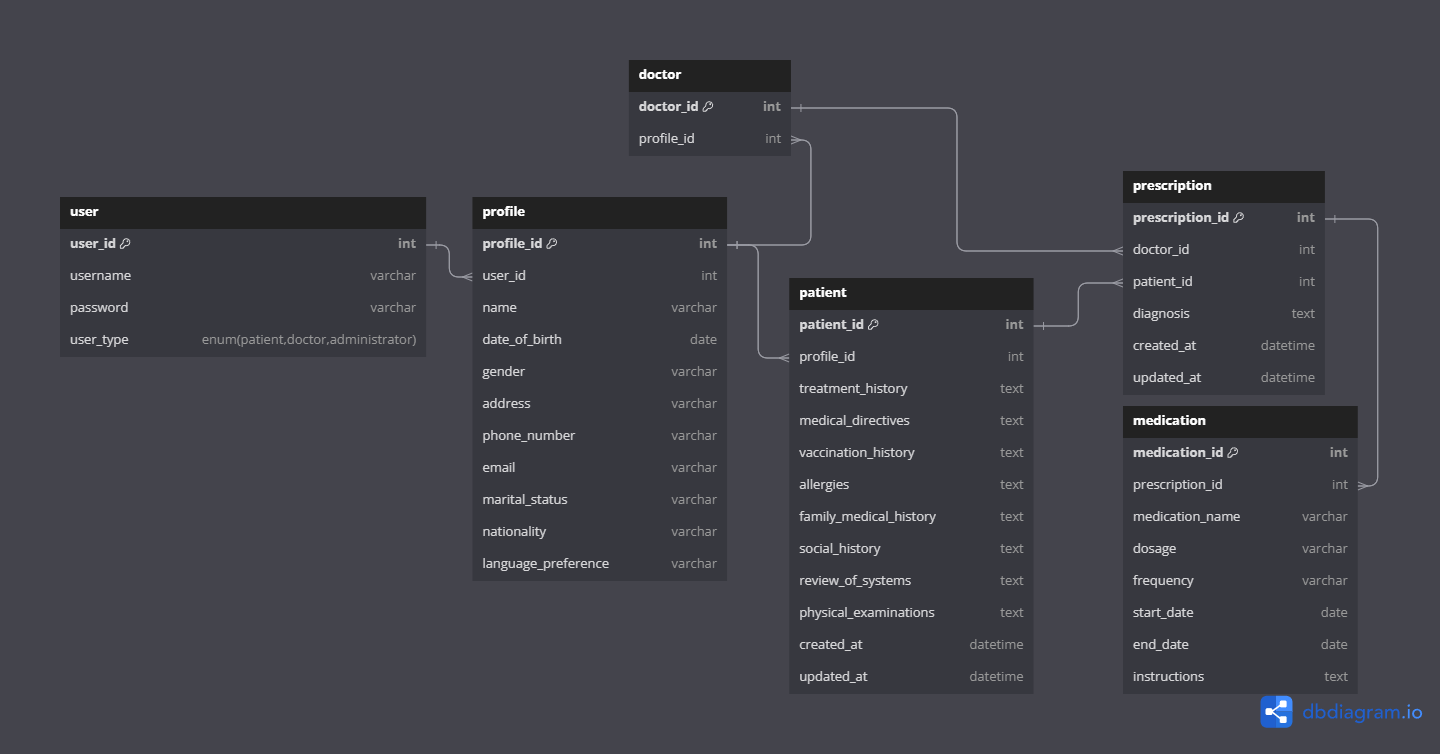
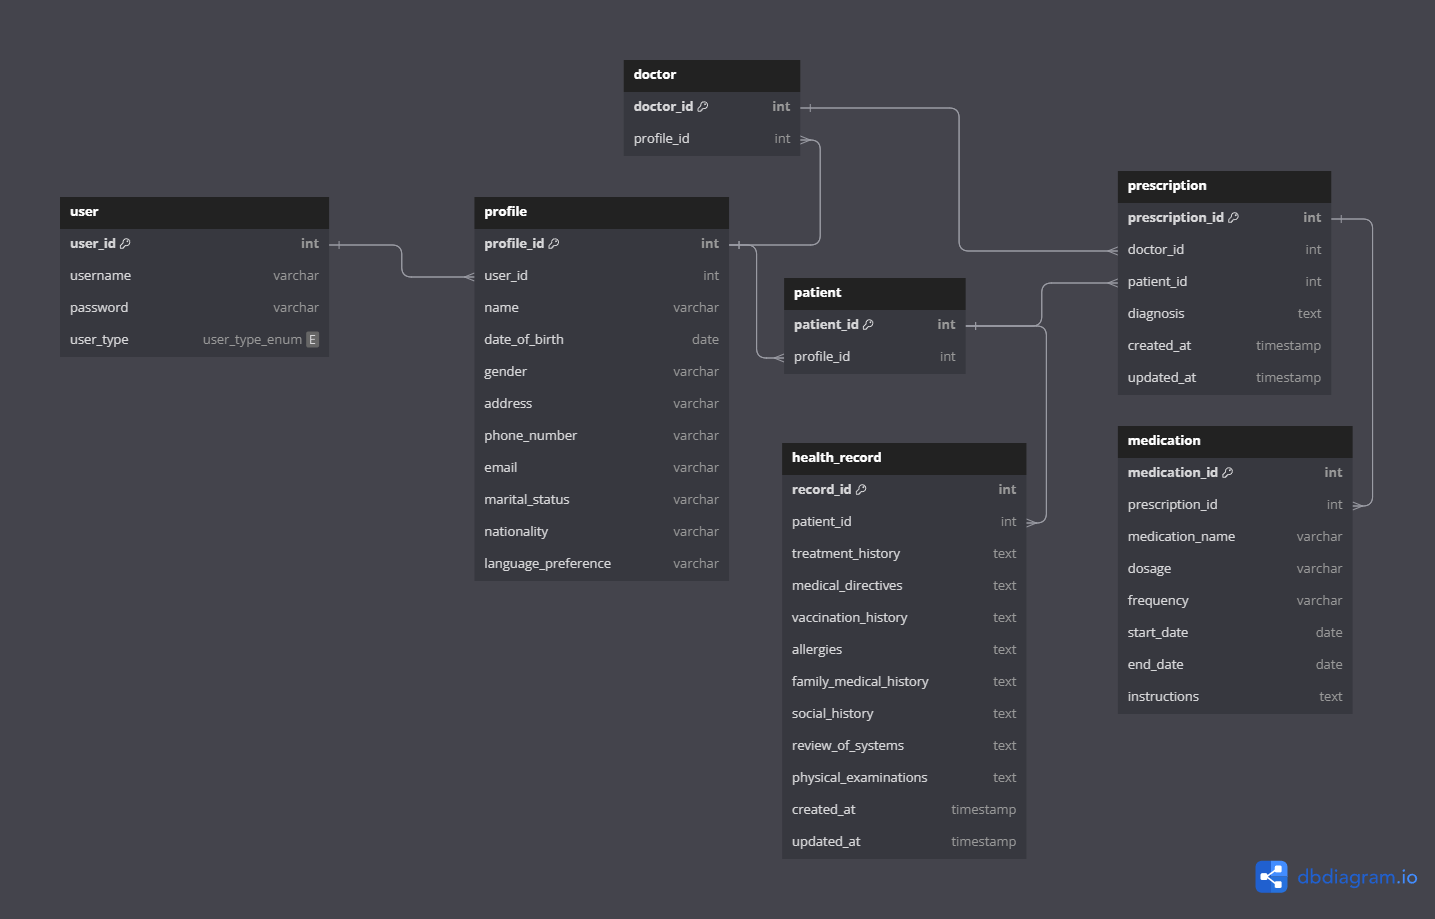
Refactor health record struct and update .gitignore

diff --git a/db/models.go b/db/models.go
@@ -1,0 +1,121 @@
+// Code generated by sqlc. DO NOT EDIT.
+// versions:
+//   sqlc v1.25.0
+
+package db
+
+import (
+	"database/sql/driver"
+	"fmt"
+
+	"github.com/jackc/pgx/v5/pgtype"
+)
+
+type UserTypeEnum string
+
+const (
+	UserTypeEnumPatient       UserTypeEnum = "patient"
+	UserTypeEnumDoctor        UserTypeEnum = "doctor"
+	UserTypeEnumAdministrator UserTypeEnum = "administrator"
+)
+
+func (e *UserTypeEnum) Scan(src interface{}) error {
+	switch s := src.(type) {
+	case []byte:
+		*e = UserTypeEnum(s)
+	case string:
+		*e = UserTypeEnum(s)
+	default:
+		return fmt.Errorf("unsupported scan type for UserTypeEnum: %T", src)
+	}
+	return nil
+}
+
+type NullUserTypeEnum struct {
+	UserTypeEnum UserTypeEnum
+	Valid        bool // Valid is true if UserTypeEnum is not NULL
+}
+
+// Scan implements the Scanner interface.
+func (ns *NullUserTypeEnum) Scan(value interface{}) error {
+	if value == nil {
+		ns.UserTypeEnum, ns.Valid = "", false
+		return nil
+	}
+	ns.Valid = true
+	return ns.UserTypeEnum.Scan(value)
+}
+
+// Value implements the driver Valuer interface.
+func (ns NullUserTypeEnum) Value() (driver.Value, error) {
+	if !ns.Valid {
+		return nil, nil
+	}
+	return string(ns.UserTypeEnum), nil
+}
+
+type Doctor struct {
+	DoctorID  int32
+	ProfileID pgtype.Int4
+}
+
+type HealthRecord struct {
+	RecordID             int32
+	PatientID            pgtype.Int4
+	TreatmentHistory     pgtype.Text
+	MedicalDirectives    pgtype.Text
+	VaccinationHistory   pgtype.Text
+	Allergies            pgtype.Text
+	FamilyMedicalHistory pgtype.Text
+	SocialHistory        pgtype.Text
+	ReviewOfSystems      pgtype.Text
+	PhysicalExaminations pgtype.Text
+	CreatedAt            pgtype.Timestamp
+	UpdatedAt            pgtype.Timestamp
+}
+
+type Medication struct {
+	MedicationID   int32
+	PrescriptionID pgtype.Int4
+	MedicationName pgtype.Text
+	Dosage         pgtype.Text
+	Frequency      pgtype.Text
+	StartDate      pgtype.Date
+	EndDate        pgtype.Date
+	Instructions   pgtype.Text
+}
+
+type Patient struct {
+	PatientID int32
+	ProfileID pgtype.Int4
+}
+
+type Prescription struct {
+	PrescriptionID int32
+	DoctorID       pgtype.Int4
+	PatientID      pgtype.Int4
+	Diagnosis      pgtype.Text
+	CreatedAt      pgtype.Timestamp
+	UpdatedAt      pgtype.Timestamp
+}
+
+type Profile struct {
+	ProfileID          int32
+	UserID             pgtype.Int4
+	Name               pgtype.Text
+	DateOfBirth        pgtype.Date
+	Gender             pgtype.Text
+	Address            pgtype.Text
+	PhoneNumber        pgtype.Text
+	Email              pgtype.Text
+	MaritalStatus      pgtype.Text
+	Nationality        pgtype.Text
+	LanguagePreference pgtype.Text
+}
+
+type User struct {
+	UserID   int32
+	Username pgtype.Text
+	Password pgtype.Text
+	UserType NullUserTypeEnum
+}

diff --git a/internal/data/healthrecord.go b/internal/data/healthrecord.go
@@ -6,27 +6,14 @@ import "time"
 // including personal information, medical history, and treatment plans.
 type PatientHealthRecord struct {
 	ID                   int64     `json:"id"`
-	Name                 string    `json:"name"`
-	DateOfBirth          time.Time `json:"date_of_birth"`
-	Gender               string    `json:"gender"`
-	Address              string    `json:"address"`
-	PhoneNumber          string    `json:"phone_number"`
-	Email                string    `json:"email"`
-	MaritalStatus        string    `json:"marital_status"`
-	Nationality          string    `json:"nationality"`
-	LanguagePreference   string    `json:"language_preference"`
-	TreatmentHistory     []string  `json:"treatment_history"`
-	MedicalDirectives    []string  `json:"medical_directives"`
-	VaccinationHistory   []string  `json:"vaccination_history"`
-	Allergies            []string  `json:"allergies"`
-	FamilyMedicalHistory []string  `json:"family_medical_history"`
-	SocialHistory        []string  `json:"social_history"`
-	ReviewOfSystems      []string  `json:"review_of_systems"`
-	PhysicalExaminations []string  `json:"physical_examinations"`
-	Diagnoses            []string  `json:"diagnoses"`
-	Procedures           []string  `json:"procedures"`
-	PlansAndOrders       []string  `json:"plans_and_orders"`
-	Notes                []string  `json:"notes"`
+	TreatmentHistory     string    `json:"treatment_history"`
+	MedicalDirectives    string    `json:"medical_directives"`
+	VaccinationHistory   string    `json:"vaccination_history"`
+	Allergies            string    `json:"allergies"`
+	FamilyMedicalHistory string    `json:"family_medical_history"`
+	SocialHistory        string    `json:"social_history"`
+	ReviewOfSystems      string    `json:"review_of_systems"`
+	PhysicalExaminations string    `json:"physical_examinations"`
 	CreatedAt            time.Time `json:"created_at"`
 	UpdatedAt            time.Time `json:"updated_at"`
 }

diff --git a/cmd/api/healthrecord.go b/cmd/api/healthrecord.go
@@ -16,31 +16,19 @@ func (app *application) showMedicalRecord(w http.ResponseWriter, r *http.Request
 
 	// Create a mock patient health record 
 	mockRecord := data.PatientHealthRecord{
-		ID:                   102, 
-		Name:                 "John Doe",
-		DateOfBirth:          time.Date(1980, 1, 1, 0, 0, 0, 0, time.UTC),
-		Gender:               "Male",
-		Address:              "123 Main St",
-		PhoneNumber:          "+1234567890",
-		Email:                "john.doe@example.com",
-		MaritalStatus:        "Single",
-		Nationality:          "American",
-		LanguagePreference:   "English",
-		TreatmentHistory:     []string{"Initial check-up", "Annual flu shot"},
-		MedicalDirectives:    []string{"Do not smoke"},
-		VaccinationHistory:   []string{"Flu shot 2023"},
-		Allergies:            []string{"Peanuts"},
-		FamilyMedicalHistory: []string{"Grandfather had heart disease"},
-		SocialHistory:        []string{"Regular exercise"},
-		ReviewOfSystems:      []string{"No significant findings"},
-		PhysicalExaminations: []string{"Normal vital signs"},
-		Diagnoses:            []string{"No recent diagnoses"},
-		Procedures:           []string{"No recent procedures"},
-		PlansAndOrders:       []string{"Routine check-ups every six months"},
-		Notes:                []string{"Patient is generally healthy"},
+		ID:                   102,
+		TreatmentHistory:     "Initial check-up, Annual flu shot",
+		MedicalDirectives:    "Do not smoke",
+		VaccinationHistory:   "Flu shot  2023",
+		Allergies:            "Peanuts",
+		FamilyMedicalHistory: "Grandfather had heart disease",
+		SocialHistory:        "Regular exercise",
+		ReviewOfSystems:      "No significant findings",
+		PhysicalExaminations: "Normal vital signs",
 		CreatedAt:            time.Now(),
 		UpdatedAt:            time.Now(),
 	}
+
 
 	if id != mockRecord.ID {
 		http.NotFound(w, r)

diff --git a/db/query.sql.go b/db/query.sql.go
@@ -1,0 +1,38 @@
+// Code generated by sqlc. DO NOT EDIT.
+// versions:
+//   sqlc v1.25.0
+// source: query.sql
+
+package db
+
+import (
+	"context"
+
+	"github.com/jackc/pgx/v5/pgtype"
+)
+
+const getHealthRecord = `-- name: GetHealthRecord :one
+SELECT record_id, patient_id, treatment_history, medical_directives, vaccination_history, allergies, family_medical_history, social_history, review_of_systems, physical_examinations, created_at, updated_at
+FROM health_record
+WHERE patient_id = $1
+`
+
+func (q *Queries) GetHealthRecord(ctx context.Context, patientID pgtype.Int4) (HealthRecord, error) {
+	row := q.db.QueryRow(ctx, getHealthRecord, patientID)
+	var i HealthRecord
+	err := row.Scan(
+		&i.RecordID,
+		&i.PatientID,
+		&i.TreatmentHistory,
+		&i.MedicalDirectives,
+		&i.VaccinationHistory,
+		&i.Allergies,
+		&i.FamilyMedicalHistory,
+		&i.SocialHistory,
+		&i.ReviewOfSystems,
+		&i.PhysicalExaminations,
+		&i.CreatedAt,
+		&i.UpdatedAt,
+	)
+	return i, err
+}

diff --git a/db/db.go b/db/db.go
@@ -1,0 +1,32 @@
+// Code generated by sqlc. DO NOT EDIT.
+// versions:
+//   sqlc v1.25.0
+
+package db
+
+import (
+	"context"
+
+	"github.com/jackc/pgx/v5"
+	"github.com/jackc/pgx/v5/pgconn"
+)
+
+type DBTX interface {
+	Exec(context.Context, string, ...interface{}) (pgconn.CommandTag, error)
+	Query(context.Context, string, ...interface{}) (pgx.Rows, error)
+	QueryRow(context.Context, string, ...interface{}) pgx.Row
+}
+
+func New(db DBTX) *Queries {
+	return &Queries{db: db}
+}
+
+type Queries struct {
+	db DBTX
+}
+
+func (q *Queries) WithTx(tx pgx.Tx) *Queries {
+	return &Queries{
+		db: tx,
+	}
+}
